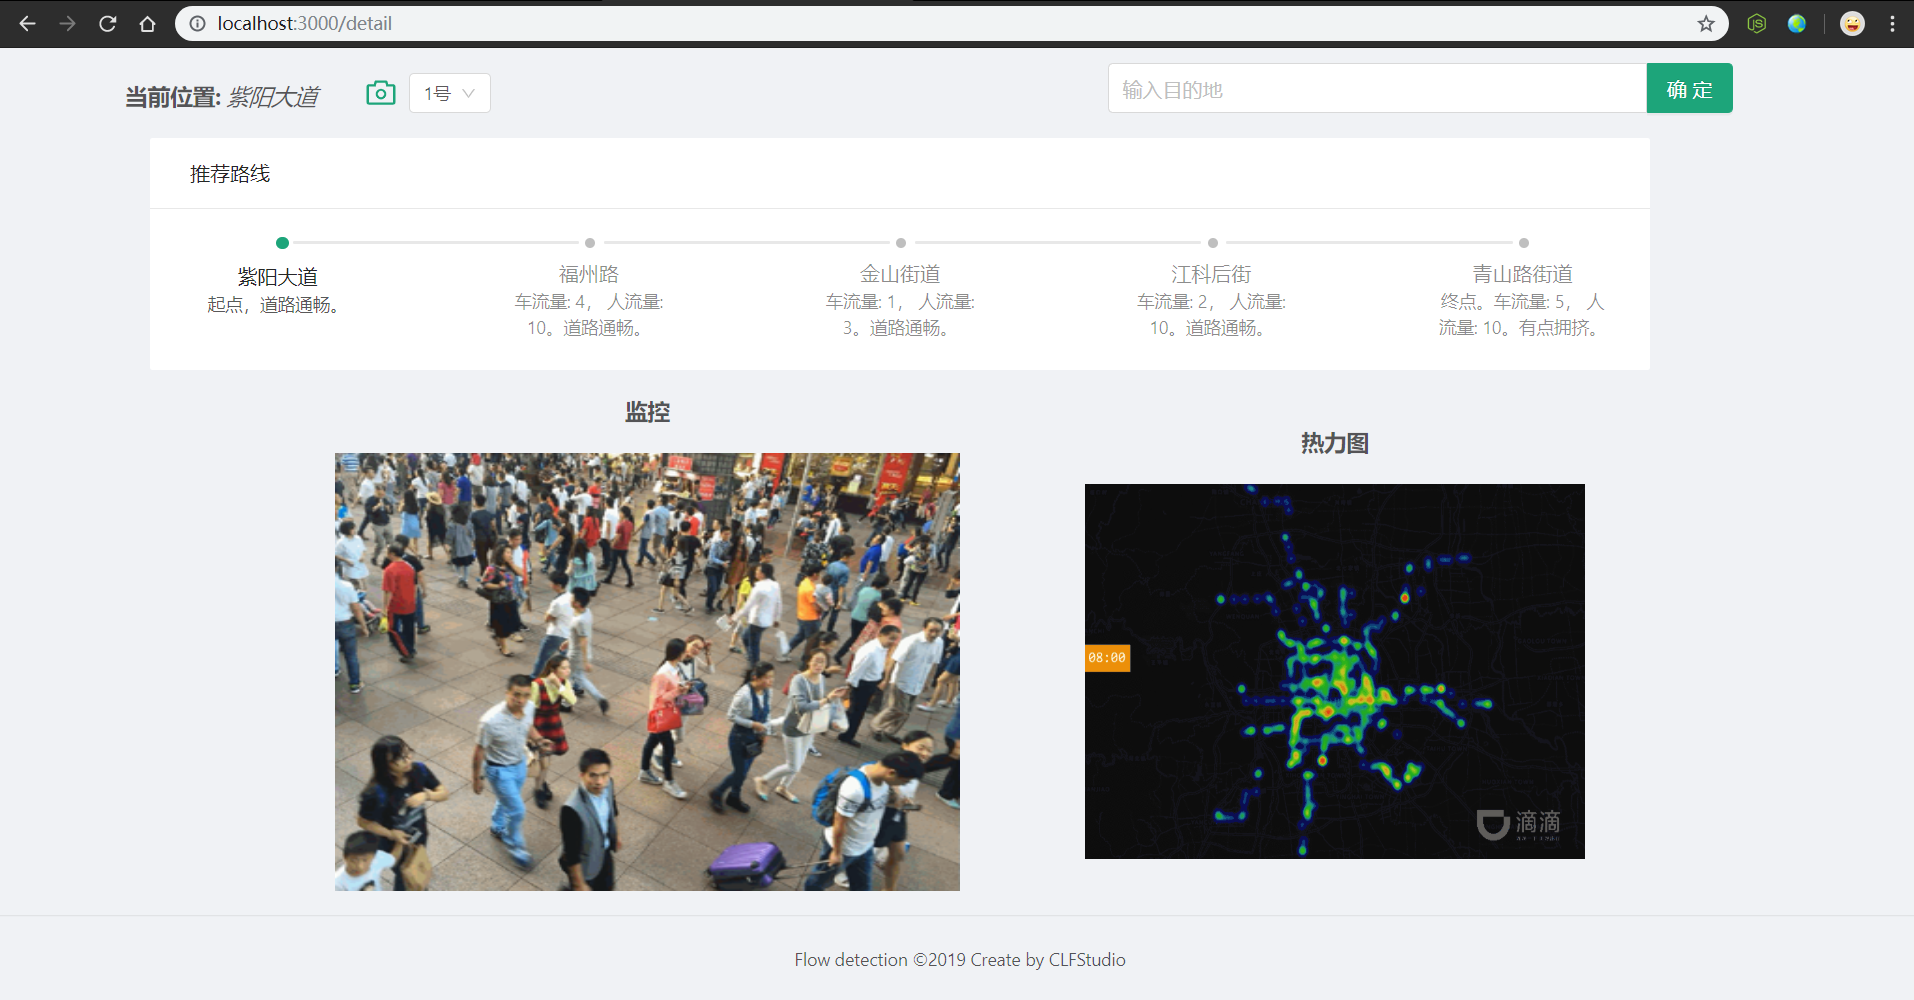
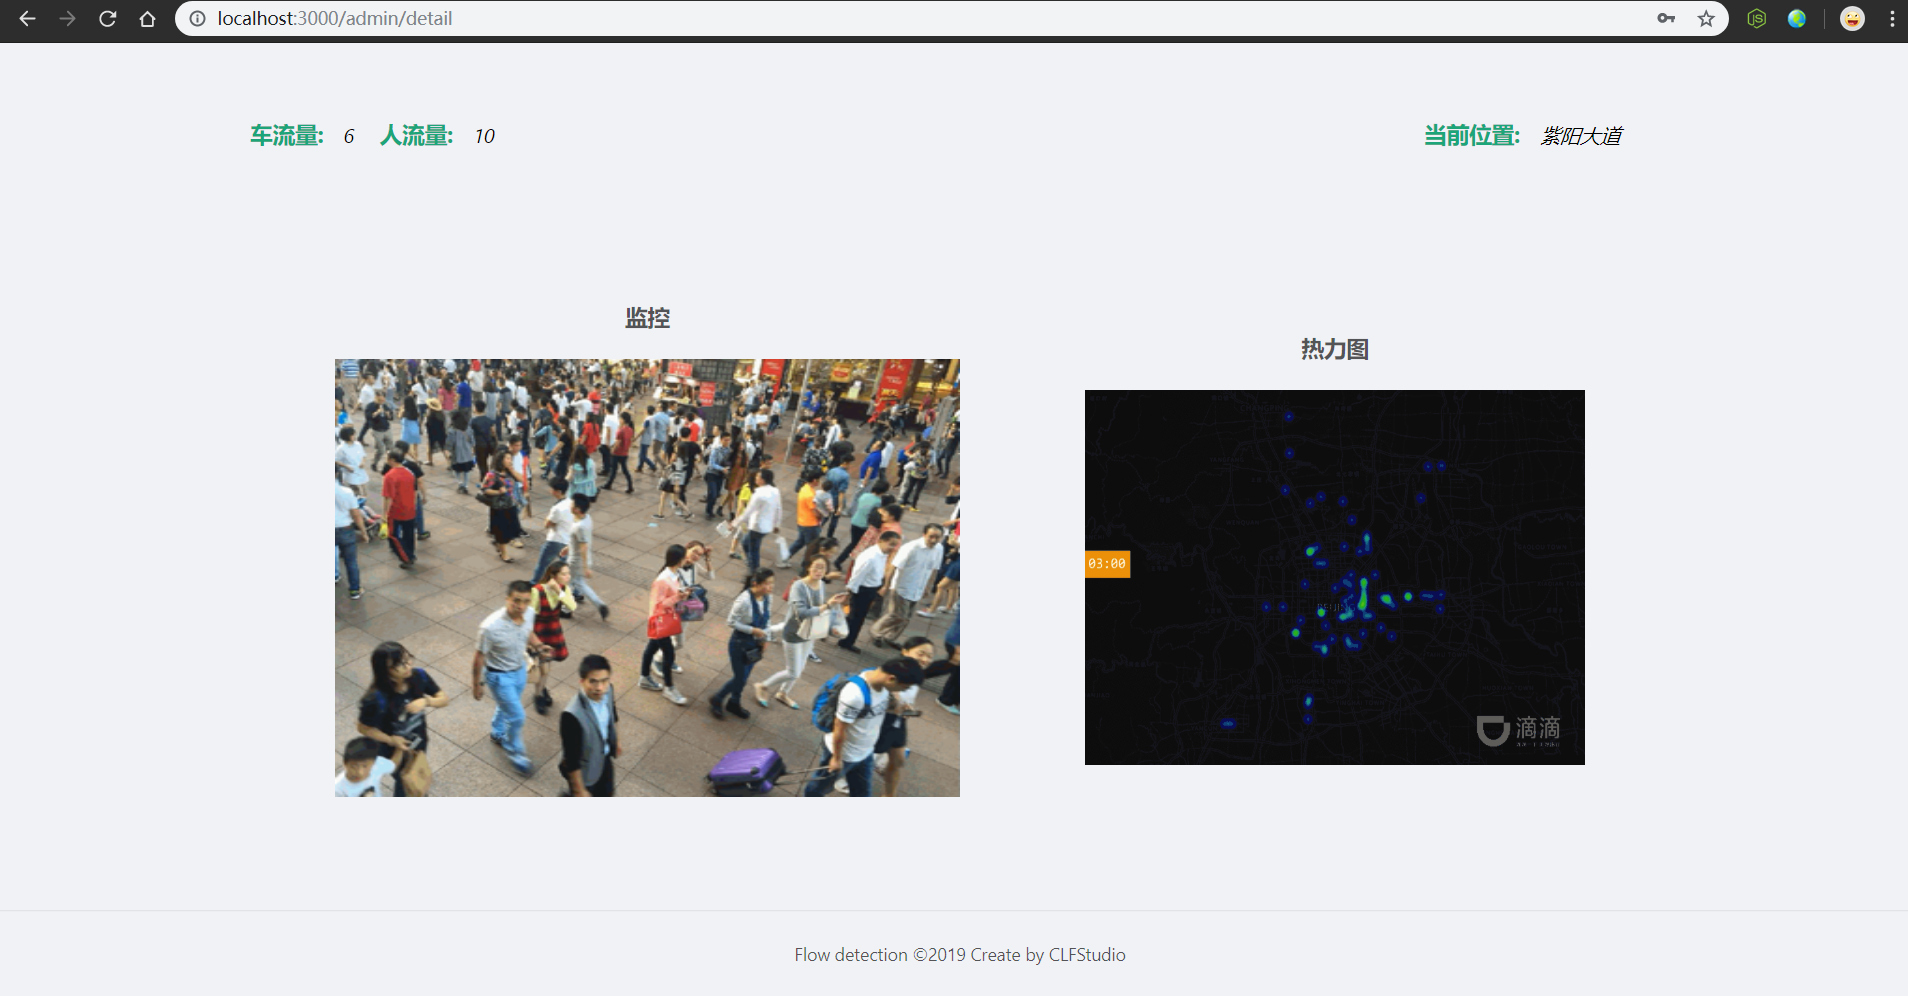
feat(pages): seprate the pages to user and admin

diff --git a/src/api/streetApi.ts b/src/api/streetApi.ts
@@ -12,12 +12,12 @@ interface FakerStreetItem {
 const streetNames: FakerStreetItem[] = [
     {
         name: '紫阳大道',
-        x: 300,
-        y: 380,
+        x: 30,
+        y: 300,
     },
     {
         name: '福州路',
-        x: 80,
+        x: 140,
         y: 100,
     },
     {
@@ -32,22 +32,22 @@ const streetNames: FakerStreetItem[] = [
     },
     {
         name: '八月湖街道',
-        x: 300,
+        x: 500,
         y: 500,
     },
     {
         name: '百花洲街道',
-        x: 400,
-        y: 430,
+        x: 580,
+        y: 450,
     },
     {
         name: '沙井街道',
-        x: 50,
-        y: 480,
+        x: 30,
+        y: 200,
     },
     {
         name: '桃园街道',
-        x: 440,
+        x: 500,
         y: 380,
     },
     {
@@ -58,12 +58,12 @@ const streetNames: FakerStreetItem[] = [
     {
         name: '上海路街道',
         x: 100,
-        y: 360,
+        y: 320,
     },
     {
         name: '京山街道',
-        x: 250,
-        y: 380,
+        x: 550,
+        y: 320,
     },
     {
         name: '三家店街道',
@@ -72,7 +72,7 @@ const streetNames: FakerStreetItem[] = [
     },
     {
         name: '塘山街道',
-        x: 480,
+        x: 420,
         y: 560,
     },
     {

diff --git a/src/App.tsx b/src/App.tsx
@@ -1,24 +1,21 @@
 import * as React from 'react';
 import { Layout } from 'antd';
-import { Switch, Route, Redirect } from 'react-router-dom';
-import { Home, Detail, Login } from './pages';
+import { AdminRoutes } from './pages/admin/index';
+import { UserRoutes } from './pages/user/index';
 import './App.scss';
 
 const { Content, Footer } = Layout;
 
-const checkLogin = (): boolean => {
-    return false;
-};
+const pathname = window.location.pathname;
+if (sessionStorage.getItem('isLogin') !== 'true' && pathname.includes('/admin') && pathname !== '/admin/login') {
+    window.location.href = 'http://localhost:3000/admin/login';
+}
 
 export const App = () => (
     <Layout className="app">
         <Content className="content">
-            <Switch>
-                <Route exact path="/" component={Home} />
-                <Route exact path="/detail" component={Detail} />
-                <Route exact path="/login" component={Login} />
-                <Redirect to="/login" />
-            </Switch>
+            <AdminRoutes />
+            <UserRoutes />
         </Content>
         <Footer className="footer">Flow detection &copy;2019 Create by CLFStudio</Footer>
     </Layout>

diff --git a/src/pages/user/recommend/index.tsx b/src/pages/user/recommend/index.tsx
@@ -1,11 +1,12 @@
 import * as React from 'react';
 import { Popover, Input, Steps, Card } from 'antd';
-import { CameraSelect } from '../../components';
-import { StreetCamera } from '../../models/Street';
+import { CameraSelect } from '../../../components';
+import { StreetCamera } from '../../../models/Street';
+import './style.scss';
 const Search = Input.Search;
 const Step = Steps.Step;
 
-export const Recommand = () => {
+export const Recommend = () => {
     const cameras: StreetCamera[] = [
         {
             serialNumber: 1,
@@ -70,7 +71,7 @@ export const Recommand = () => {
     return (
         <main className="recommend">
             <div className="recommend-header">
-                <div className="recommend-current-address">
+                <div className="current-address">
                     <span className="hint">当前位置:</span>
                     <span className="address">紫阳大道</span>
                 </div>

diff --git a/src/pages/admin/detail/index.tsx b/src/pages/admin/detail/index.tsx
@@ -3,7 +3,7 @@ import './style.scss';
 
 export const Detail = React.memo(() => {
     return (
-        <main className="detail">
+        <main className="admin-detail">
             <div className="detail-header">
                 <span className="data-item">
                     <span className="data-desc">车流量:</span>
@@ -18,7 +18,7 @@ export const Detail = React.memo(() => {
                     <span className="data-value">紫阳大道</span>
                 </span>
             </div>
-            <div className="detail-body">
+            <div className="admin-detail-body">
                 <div className="monitor-container">
                     <span>监控</span>
                     <img className="detail-monitor" src="https://i.loli.net/2019/05/03/5ccc22980d0af.png" />

diff --git a/src/pages/admin/home/index.tsx b/src/pages/admin/home/index.tsx
@@ -1,8 +1,8 @@
 import * as React from 'react';
-import { Map } from '../../components';
-import { RankingList, Monitor } from '../../components';
+import { Map } from '../../../components';
+import { RankingList, Monitor } from '../../../components';
 import './style.scss';
-import { Street } from '../../models/Street';
+import { Street } from '../../../models/Street';
 
 export const Home = React.memo(() => {
     const defaultObservingStreet: Street = {
@@ -29,7 +29,7 @@ export const Home = React.memo(() => {
     );
 
     return (
-        <main className="home">
+        <main className="admin-home">
             <RankingList onSelectStreet={handleSelectStreet} />
             <Map />
             <Monitor street={observingStreet} />

diff --git a/src/components/monitor/index.tsx b/src/components/monitor/index.tsx
@@ -65,7 +65,7 @@ export const Monitor = React.memo(({ street }: MonitorProps) => {
                 src="https://timgsa.baidu.com/timg?image&quality=80&size=b9999_10000&sec=1556881105125&di=49eb598830ef5326de2d91ca66e069a2&imgtype=0&src=http%3A%2F%2Fimages.dtcj.com%2FDTCJ%2F88fe74feca25a6217b3665d355b0d23fad7daa65a6a48a2fd2cfb6850d71343d.jpg%3Fwidth%3D756%26height%3D505"
             />
             <Button type="primary" block>
-                <Link to="/detail">查看详情 ></Link>
+                <Link to="/admin/detail">查看详情 ></Link>
             </Button>
         </Card>
     );

diff --git a/src/pages/user/home/index.tsx b/src/pages/user/home/index.tsx
@@ -1,0 +1,18 @@
+import * as React from 'react';
+import { Link } from 'react-router-dom';
+import { Button } from 'antd';
+import { Map } from '../../../components';
+import './style.scss';
+
+export const Home = React.memo(() => {
+    return (
+        <main className="home">
+            <Map />
+            <Link to="/recommend">
+                <Button className="check-recommend" size="default" type="primary">
+                    查看推荐路线
+                </Button>
+            </Link>
+        </main>
+    );
+});

diff --git a/src/pages/admin/index.tsx b/src/pages/admin/index.tsx
@@ -1,0 +1,15 @@
+import * as React from 'react';
+import { Switch, Route } from 'react-router-dom';
+import { Home } from './home';
+import { Detail } from './detail';
+import { Login } from './login';
+
+export const AdminRoutes = () => {
+    return (
+        <Switch>
+            <Route exact path="/admin" component={Home} />
+            <Route exact path="/admin/detail" component={Detail} />
+            <Route exact path="/admin/login" component={Login} />
+        </Switch>
+    );
+};

diff --git a/src/pages/admin/login/index.tsx b/src/pages/admin/login/index.tsx
@@ -1,11 +1,11 @@
 import * as React from 'react';
-import { WrappedLoginForm } from '../../components';
+import { WrappedLoginForm } from '../../../components';
 import './style.scss';
 
 export const Login = React.memo(() => {
     return (
-        <div className="login">
-            <span className="login-title">登入</span>
+        <div className="admin-login">
+            <span className="admin-login-title">登入</span>
             <WrappedLoginForm />
         </div>
     );

diff --git a/src/pages/user/recommend/style.scss b/src/pages/user/recommend/style.scss
@@ -4,9 +4,9 @@
         display: flex;
         align-items: flex-end;
         margin: 0 100px;
-        margin-top: 20px;
+        margin-top: 50px;
 
-        &-current-address {
+        .current-address {
             margin-right: 40px;
             font-weight: bold;
             font-size: 18px;
@@ -30,7 +30,7 @@
 
     .recommend-path {
         width: 1200px;
-        margin-top: 20px;
+        margin-top: 100px;
         margin-left: 120px;
     }
 }

diff --git a/src/pages/user/index.tsx b/src/pages/user/index.tsx
@@ -1,0 +1,13 @@
+import * as React from 'react';
+import { Switch, Route } from 'react-router-dom';
+import { Home } from './home';
+import { Recommend } from './recommend';
+
+export const UserRoutes = () => {
+    return (
+        <Switch>
+            <Route exact path="/" component={Home} />
+            <Route exact path="/recommend" component={Recommend} />
+        </Switch>
+    );
+};

diff --git a/src/components/loginForm/index.tsx b/src/components/loginForm/index.tsx
@@ -16,8 +16,9 @@ const LoginForm = React.memo(({ form }: LoginFormProps) => {
                 console.log('Received values of form: ', values);
             }
         });
+        sessionStorage.setItem('isLogin', 'true');
 
-        window.location.href = 'http://localhost:3000/';
+        window.location.href = 'http://localhost:3000/admin';
     };
 
     return (
